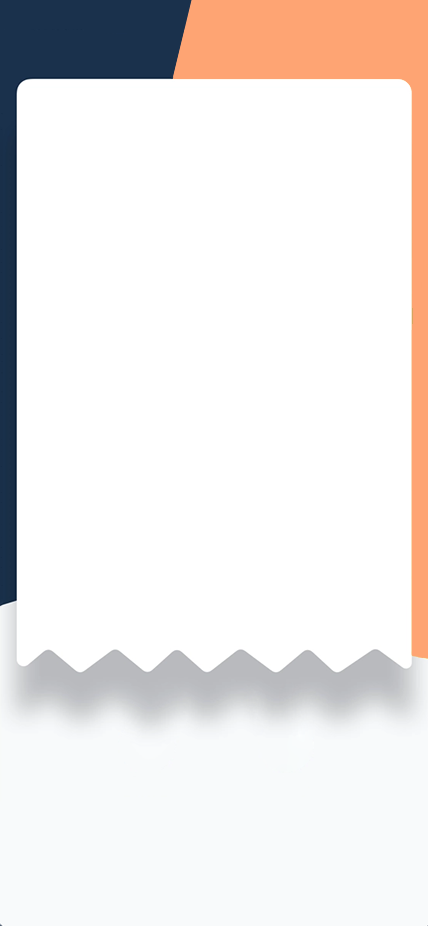
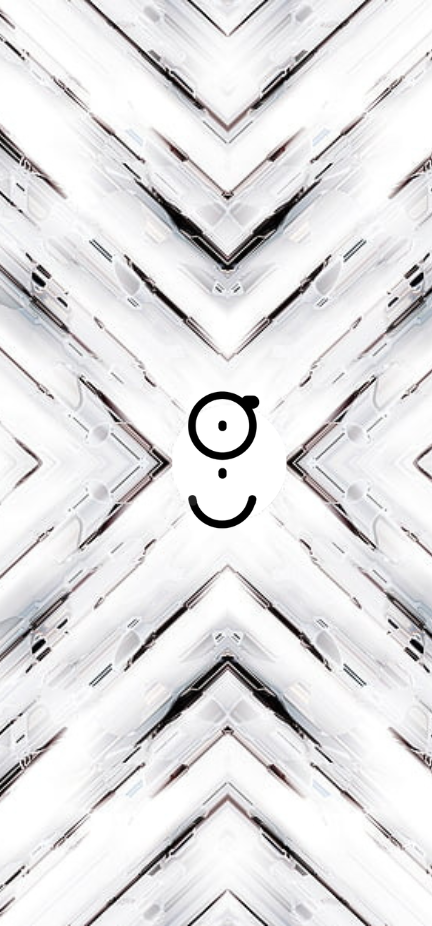
changed the payment bg added deposit and history pages

diff --git a/lib/pages/deposit.dart b/lib/pages/deposit.dart
@@ -1,0 +1,201 @@
+import 'package:flutter/cupertino.dart';
+import 'package:flutter/material.dart';
+import 'package:gaspayapp/widgets/large_buttons.dart';
+import 'package:nb_utils/nb_utils.dart';
+import 'dart:math' as math;
+
+
+class SendMoney extends StatefulWidget {
+  const SendMoney({Key? key}) : super(key: key);
+
+  @override
+  _SendMoneyState createState() => _SendMoneyState();
+}
+
+class _SendMoneyState extends State<SendMoney> {
+  final ScrollController _scrollController = ScrollController();
+  @override
+  void initState() {
+    _scrollController.addListener(() {
+      print(_scrollController.offset);
+    });
+    super.initState();
+  }
+
+  @override
+  Widget build(BuildContext context) {
+    //SizeConfig.init(context);
+    return Scaffold(
+      backgroundColor: Color(0xFFecf1f4),
+      appBar: myAppBar(title: 'Deposit', implyLeading: true, context: context),
+      bottomSheet: Container(
+        color: Color(0xFFecf1f4),
+        padding: const EdgeInsets.symmetric(horizontal: 15, vertical: 40),
+        child: AppLargeButton(
+          // color: Color(0xFFf1f4f8),
+          // context: context,
+         // callback: () {},
+          text: 'Send Money',
+        ),
+      ),
+      body: ListView(
+        padding: const EdgeInsets.all(15),
+        children: [
+          Stack(
+            children: [
+              Container(
+                width: double.infinity,
+                padding: const EdgeInsets.fromLTRB(20, 10, 20, 0),
+                decoration: BoxDecoration(
+                  borderRadius: BorderRadius.circular(15),
+                  color: Color(0xFFecf1f4),
+                ),
+                child: Column(
+                  crossAxisAlignment: CrossAxisAlignment.start,
+                  children: [
+                    Row(
+                      mainAxisAlignment: MainAxisAlignment.spaceBetween,
+                      children: [
+                        Image.asset (images.brand1,
+                            width: 60, height: 45, fit: BoxFit.cover),
+                        const Padding(
+                          padding: EdgeInsets.only(top: 20, right: 5),
+                          child: Text('\$20,000.00',
+                              style: TextStyle(
+                                  fontWeight: FontWeight.bold,
+                                  fontSize: 21,
+                                  color: Colors.white)),
+                        ),
+                      ],
+                    ),
+                    const Gap(24),
+                    customColumn(
+                        title: 'CARD NUMBER', subtitle: '3829 4820 4629 5025'),
+                    const Gap(15)
+                  ],
+                ),
+              ),
+              Positioned(
+                bottom: 0,
+                right: 70,
+                child: Container(
+                  padding: const EdgeInsets.all(6),
+                  decoration: BoxDecoration(
+                    borderRadius: const BorderRadius.vertical(top: Radius.circular(50)),
+                    color: Color(0xFFecf1f4),
+                  ),
+                  child: Container(
+                    padding: const EdgeInsets.all(6),
+                    decoration: BoxDecoration(
+                      shape: BoxShape.circle,
+                      color: Color(0xFFecf1f4),
+                    ),
+                    child: Icon(Icons.keyboard_backspace_rounded, color: Colors.white.withOpacity(0.5), size: 18),
+                  ),
+                ),
+              ),
+              Positioned(
+                bottom: 0,
+                right: 18,
+                child: Container(
+                  padding: const EdgeInsets.all(6),
+                  decoration: BoxDecoration(
+                    borderRadius:
+                    const BorderRadius.vertical(top: Radius.circular(50)),
+                    color: Color(0xFFecf1f4),
+                  ),
+                  child: Container(
+                    padding: const EdgeInsets.all(4),
+                    decoration: BoxDecoration(
+                      shape: BoxShape.circle,
+                      color: Color(0xFFecf1f4),
+                    ),
+                    child: Transform.rotate(
+                      angle: math.pi,
+                      child: const Icon(Icons.keyboard_backspace_rounded,
+                          color: Colors.white, size: 16),
+                    ),
+                  ),
+                ),
+              ),
+            ],
+          ),
+          const Gap(20),
+          const PeopleSlider(),
+          const Gap(10),
+          Container(
+            width: double.infinity,
+            decoration: BoxDecoration(
+                borderRadius: BorderRadius.circular(15),
+                color: Color(0xFF73be93),
+                border: Border.all(color: Color(0xFF73be93))            ),
+            child: Column(
+              crossAxisAlignment: CrossAxisAlignment.start,
+              mainAxisAlignment: MainAxisAlignment.center,
+              children: [
+                Container(
+                  padding: const EdgeInsets.fromLTRB(20, 30, 20, 10),
+                  child: Row(
+                    mainAxisAlignment: MainAxisAlignment.spaceBetween,
+                    children: [
+                      Text('\$1600.00',
+                          style: TextStyle(
+                              color: Color(0xFF73be93),
+                              fontSize: 32,
+                              fontWeight: FontWeight.bold)),
+                      Container(
+                          padding: const EdgeInsets.symmetric(
+                              horizontal: 18, vertical: 12),
+                          decoration: BoxDecoration(
+                            borderRadius: BorderRadius.circular(14),
+                            color: Color(0xFF73be93),
+                          ),
+                          child: Row(
+                            children: [
+                              Text('USD',
+                                  style: TextStyle(
+                                      color: Color(0xFF73be93),
+                                      fontSize: 24,
+                                      fontWeight: FontWeight.bold)),
+                              const Gap(8),
+                              Icon(CupertinoIcons.chevron_down,
+                                  color: Color(0xFF73be93),
+                                  size: 18)
+                            ],
+                          )),
+                    ],
+                  ),
+                ),
+                Divider(color: Color(0xFF73be93), thickness: 2),
+                Container(
+                    padding: const EdgeInsets.fromLTRB(20, 0, 20, 0),
+                    child: Text('Send Money Purpose',
+                        style:
+                        TextStyle(color: Color(0xFF6f7c8b)))),
+                const Gap(10),
+              ],
+            ),
+          ),
+        ],
+      ),
+    );
+  }
+
+  Widget customColumn({required String title, required String subtitle}) {
+    return Column(
+      crossAxisAlignment: CrossAxisAlignment.start,
+      children: [
+        Text(title.toUpperCase(),
+            style:
+            TextStyle(fontSize: 11, color: Colors.white.withOpacity(0.5))),
+        const Gap(2),
+        Text(subtitle,
+            style:
+            TextStyle(fontSize: 16, color: Colors.white.withOpacity(0.8))),
+      ],
+    );
+  }
+}
+
+myAppBar({required String title, required bool implyLeading, required BuildContext context}) {
+}

diff --git a/lib/pages/home.dart b/lib/pages/home.dart
@@ -52,7 +52,7 @@ class _HomePageState extends State<HomePage> {
 
   _headSection() {
     return SizedBox(
-      height: 310,
+      height: 240,
       child: Stack(
         children: [
          _mainbackground(),
@@ -197,7 +197,7 @@ class _HomePageState extends State<HomePage> {
 
   _listbills() {
     return Positioned(
-        top: 320,
+        top: 220,
         left: 0,
         right: 0,
         bottom: 0,

diff --git a/lib/pages/history.dart b/lib/pages/history.dart
@@ -1,0 +1,15 @@
+import 'package:flutter/material.dart';
+
+
+class History extends StatelessWidget {
+  const History({Key key}) : super(key: key);
+
+  @override
+  Widget build(BuildContext context) {
+    return StreamProvider<QuerySnapshot>.value(
+        value: DatabaseService().history,
+        child: Scaffold(
+          body: HistoryTile(),
+        ));
+  }
+}

diff --git a/lib/pages/payment_page.dart b/lib/pages/payment_page.dart
@@ -34,7 +34,7 @@ class PaymentPage extends StatelessWidget {
             ),
             Text("Payment Successful !",
             style: TextStyle(
-              fontSize: 20,
+              fontSize: 25,
               fontWeight: FontWeight.bold,
               color: AppColor.mainColor,
             ),

diff --git a/lib/pages/scan_page.dart b/lib/pages/scan_page.dart
@@ -22,7 +22,8 @@ class Scanpage extends StatelessWidget {
               builder: (context) => const QRViewExample(),
             ));
           },
-          child: const Text('qrView'),
+          child:
+          const Text('Tap to scan'),
         ),
       ),
     );
